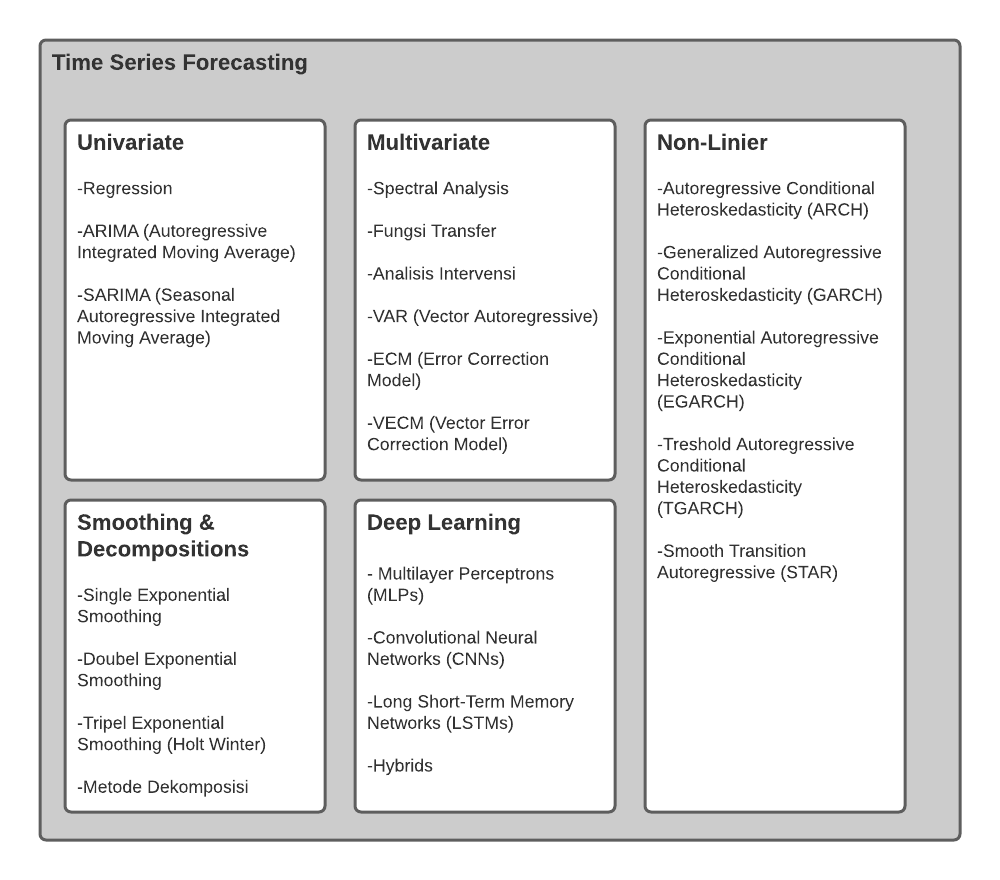
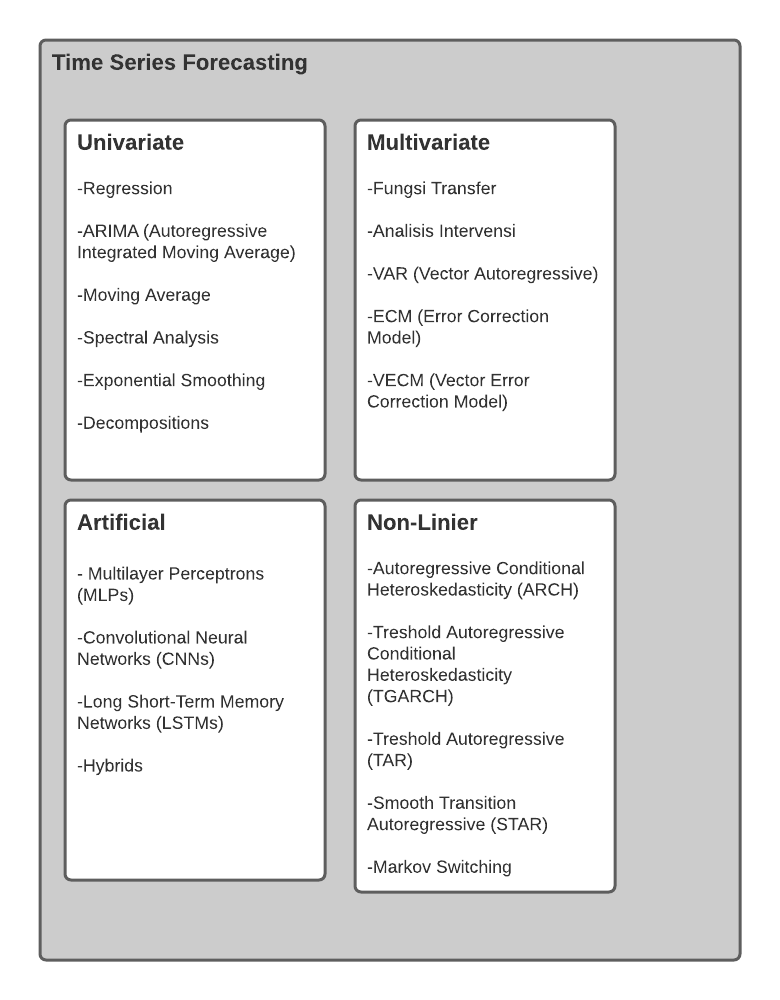
update taxonomy

diff --git a/Time Series Analysis/README.md b/Time Series Analysis/README.md
@@ -33,3 +33,9 @@ Tahapan dalam forecasting menurut Box & Jenkins (1976) adalah
 ![](images/flow.png)
 
 
+## Refference
+1. https://www.itl.nist.gov/div898/handbook/pmc/section4/pmc444.htm
+2. https://homepage.univie.ac.at/robert.kunst/prognos3.pdf
+3. https://www.stat.ipb.ac.id/en/uploads/RA/Time%20series/Kuliah%206%20-%20Metode%20Pemulusan%20Winter%20(Multiplikatif).pdf
+4. https://otexts.com/fpp2/moving-averages.html
+5. http://halweb.uc3m.es/esp/Personal/personas/jtena/eng/teaching_files/DOCTO6.pdf
